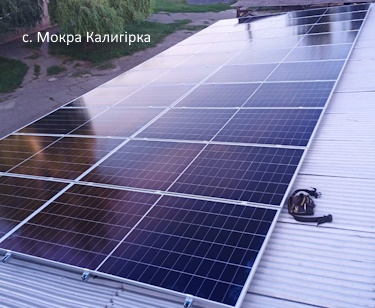
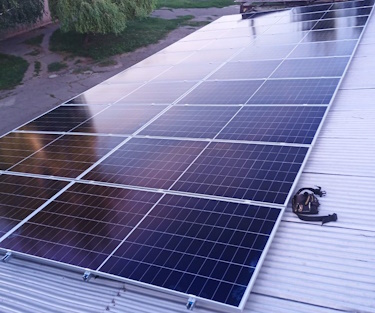
2136

diff --git a/index.html b/index.html
@@ -235,6 +235,19 @@
           <p class="works__text">Встановлено сонячну станцію для бізнесу по зеленому тарифу, потужністю панелей 44 кВт</p>
         </div>
       </li>
+       <li class="works__item">
+        <picture class="works__picture">
+          <source srcset="./images/works/work3-1x.jpg 1x, ./images/works/work3-2x.jpg 2x" media="(min-width: 1280px)" />
+          <img class="works__img" src="./images/mob/MKal.jpg" alt="Автономна станція" />
+       <picture class="works__picture">
+          <source srcset="./images/works/work3-1x.jpg 1x, ./images/works/work3-2x.jpg 2x" media="(min-width: 1280px)" />
+          <img class="works__img" src="./images/mob/mkal1.jpg" alt="Автономна станція" />
+        </picture>
+        <div class="works__desc">
+          <h3 class="works__project-title">СЕС оптимізації тарифу, Мокрокалигірський інтернат</h3>
+          <p class="works__text">Встановлено сонячну станцію для здешевлення електроспоживання холодильного обладнання, потужністю панелей 12,2 кВт, інвертор DEYE-12 кВт 380В, акумуляторна система резервного живлення 20 кВт.</p>
+        </div>
+      </li>
     </ul>
   </div>
 </section> 
